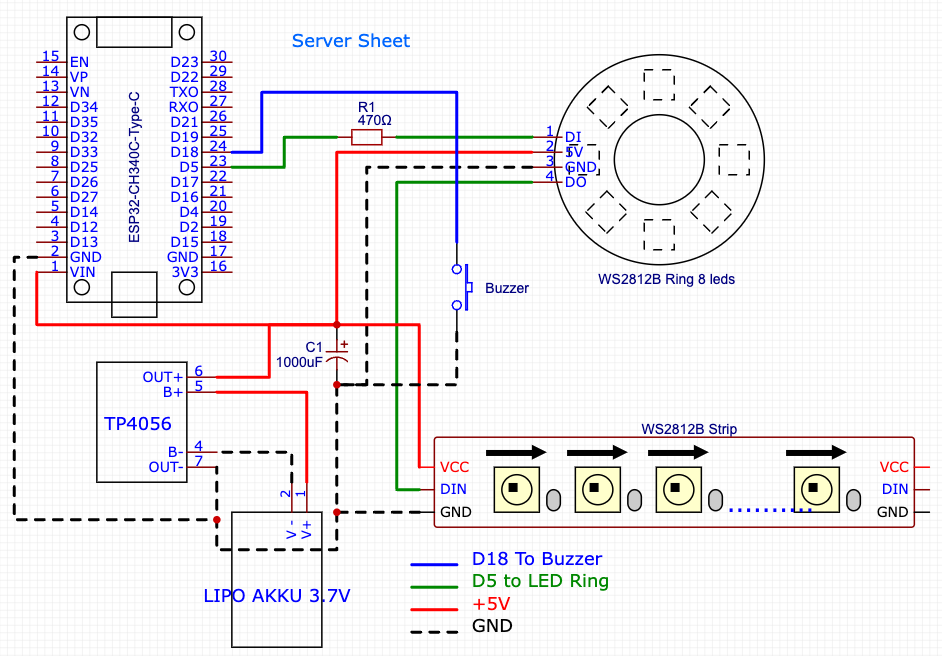
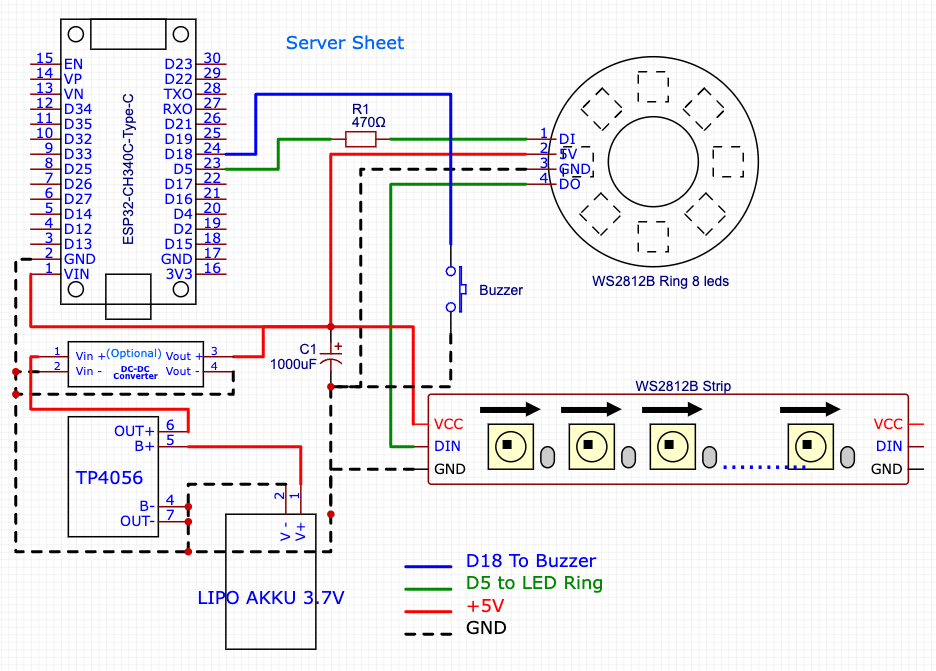
Update documentation to include DC-DC Step-Up Converter as an optional component for the quiz buzzer system. Clarified its benefits for stable LED performance and ESP32 operation, and adjusted recommendations for series resistor and capacitor to "strongly recommended." Enhanced wiring guide with det

Changed region(s): [[0.0, 0.0, 0.9915, 1.0], [0.4338, 0.8232, 0.6506, 0.9756], [0.3098, 0.0305, 0.4338, 0.0915]]

diff --git a/docs/WIRING_GUIDE.md b/docs/WIRING_GUIDE.md
@@ -21,6 +21,21 @@ Complete step-by-step wiring instructions for building the Server (Quiz Master) 
 - **Solder**
 - **Electrical tape** or **Kapton tape**
 
+### Optional Components
+
+#### DC-DC Step-Up Converter (Server Only)
+- **Purpose:** Boosts 3.7V battery voltage to stable 5V for LEDs and ESP32
+- **Type:** Step-up (boost) converter, adjustable output
+- **Recommended specs:** 
+  - Input: 3.0-4.2V (LiPo range)
+  - Output: 5V, min. 3A capacity
+  - Efficiency: >85%
+- **Advantages:**
+  - More stable voltage for LEDs (less flickering)
+  - Better performance at low battery levels
+  - Can extend usable battery capacity
+- **Note:** Not required if using ESP32's onboard regulator, but recommended for server with 18 LEDs
+
 ---
 
 ## 🔌 Pin Configuration (Unified for Server & Client!)
@@ -54,6 +69,7 @@ Both Server and Client use **identical pin assignments** - this simplifies assem
 - LiPo Battery (3.7V 8000mAh)
 - 1000µF Capacitor (power stabilization)
 - 470Ω Resistor (R1, LED data line protection)
+- DC-DC Step Up Converter (Optional)
 - Button (with internal pull-up)
 - Power Switch
 
@@ -88,26 +104,37 @@ Both Server and Client use **identical pin assignments** - this simplifies assem
 
 **IMPORTANT:** Build power system first and test before connecting other components!
 
-#### Battery → Charging Module → ESP32
+#### Battery → Charging Module → (Optional DC-DC Converter) → ESP32
 
 1. **Solder battery to TP4056 charging module:**
    - Red wire → B+ pad
    - Black wire → B- pad
    - **Add strain relief** with hot glue or zip tie
 
-2. **Add the power switch:**
-   - Cut the positive (+) wire between OUT+ and the ESP32
-   - Solder switch in line with this wire
-   - The switch goes in the hole on the bottom of the enclosure (secure with zip tie)
+2. **Optional: Add DC-DC Step-Up Converter (Server recommended):**
+   
+   **If using DC-DC converter (recommended for Server):**
+   - Connect TP4056 OUT+ → DC-DC Vin+
+   - Connect TP4056 OUT- → DC-DC Vin-
+   - **Adjust output voltage:** Turn trimmer potentiometer until Vout = 5.0V (measure with multimeter!)
+   - Connect DC-DC Vout+ → Power switch → ESP32 VIN & LED 5V
+   - Connect DC-DC Vout- → ESP32 GND & LED GND
+   
+   **If NOT using DC-DC converter (simpler, but less stable):**
+   - Connect TP4056 OUT+ → Power switch → ESP32 VIN
+   - Connect TP4056 OUT- → ESP32 GND
+   - Note: Voltage will vary 3.0-4.2V depending on battery charge
 
-3. **Connect TP4056 output to ESP32:**
-   - OUT+ → ESP32 VIN (or 5V pin)
-   - OUT- → ESP32 GND
+3. **Add the power switch:**
+   - Install in the positive (+) line (between power source and ESP32)
+   - The switch goes in the hole on the bottom of the enclosure (secure with zip tie)
 
 4. **Test the power system:**
    - Plug USB-C into TP4056 (charging LED should light up)
+   - If using DC-DC converter: Verify output is 5.0V ±0.1V
    - Turn on power switch
    - ESP32 should power up (onboard LED may blink)
+   - Measure voltage at ESP32 VIN: Should be 4.2V (no converter) or 5.0V (with converter)
 
 ### Step 3: LED Wiring
 
@@ -200,10 +227,12 @@ Use this checklist for each device you build:
 
 ### Power System
 - [ ] Battery soldered to TP4056 B+/B-
+- [ ] (Optional) DC-DC converter connected and adjusted to 5.0V
 - [ ] Power switch in positive line
-- [ ] TP4056 OUT+/OUT- to ESP32 VIN/GND
+- [ ] Power output to ESP32 VIN/GND
 - [ ] USB charging tested (charging LED on TP4056)
 - [ ] Power switch tested (ESP32 turns on/off)
+- [ ] Voltage at ESP32 VIN measured: ~4.2V (no converter) or 5.0V (with converter)
 
 ### LED System
 - [ ] 1000µF capacitor installed (5V to GND, correct polarity!)
@@ -364,6 +393,42 @@ Using consistent colors makes troubleshooting much easier:
 ---
 
 ## 🛠 Advanced: Modifications
+
+### DC-DC Step-Up Converter (Recommended for Server)
+
+**Why add a DC-DC converter?**
+
+The 3.7V LiPo battery voltage drops as it discharges (4.2V full → 3.0V empty). This can cause:
+- LED color shifting and flickering at low battery
+- ESP32 brownouts (especially with 18 LEDs on server)
+- Reduced usable battery capacity
+
+A step-up converter maintains stable 5V regardless of battery level.
+
+**Installation (Server):**
+
+1. **Position:** Between TP4056 OUT and ESP32/LED power
+2. **Wiring:**
+   ```
+   Battery → TP4056 → DC-DC Converter → Switch → ESP32 & LEDs
+              (3.7V)      (5.0V output)
+   ```
+3. **Initial Setup:**
+   - Connect multimeter to DC-DC output
+   - Adjust trimmer potentiometer until exactly 5.0V
+   - Mark potentiometer position with marker (prevents accidental adjustment)
+   - Double-check voltage before connecting to ESP32!
+
+4. **Benefits:**
+   - Stable LED colors throughout battery life
+   - No brownouts
+   - Can use battery down to 3.0V (vs 3.3V minimum for ESP32)
+   - Better performance overall
+
+**Do clients need it?**
+- Not essential for clients (only 8 LEDs)
+- Server benefits more (18 LEDs = more power draw)
+- If building 10 clients, may skip converter to reduce cost/complexity
 
 ### Adding Additional Buttons (Server)
 

diff --git a/README.md b/README.md
@@ -21,7 +21,7 @@ A quiz buzzer system with one ESP32 server and multiple ESP32 clients, connected
 | **LED Ring (8 LEDs)** | WS2812 5050 RGB LED Ring, 8 Bit, 32mm outer diameter | [AZ-Delivery](https://www.az-delivery.de/products/led-ring-ws2812-5050-rgb) |
 | **Button** | 12x12x7mm Tactile Push Button Switch, 4-Pin | [Amazon DE](https://www.amazon.de/dp/B0CP2DMNMQ) |
 | **Button Spring** | Spring for button mechanism | [Amazon DE](https://www.amazon.de/dp/B0DHCPVJNS) |
-| **Charging Module** | Lithium Battery Charging Module (TP4056 or similar) | [Amazon DE](https://www.amazon.de/dp/B0DBHMR5KJ) |
+| **Charging Module** | Lithium Battery Charging Module (TP4056) | [Amazon DE](https://www.amazon.de/dp/B0DBHMR5KJ) |
 | **Power Switch** | Mini Toggle Switch / Push Button for power | [Amazon DE](https://www.amazon.de/dp/B0CZNH2K4S) |
 | **Heat Inserts** | M3 Threaded Inserts (short version) | [Amazon DE](https://www.amazon.de/dp/B0D17FGQWW) |
 | **Screws** | M3 x 8 mm (Counter-sunk) | - |
@@ -32,6 +32,7 @@ A quiz buzzer system with one ESP32 server and multiple ESP32 clients, connected
 |-----------|---------------|------|
 | **LED Strip** | WS2812B LED Strip, 60 LEDs/m (for additional 10 status LEDs) | [Amazon DE](https://www.amazon.de/SEZO-Individuell-Adressierbar-Nicht-Wasserdicht-Inneneinrichtung/dp/B09N99DJRG) |
 | **Battery** | Lithium Polymer Battery 3.7V 8000mAh (high capacity for server) | [Amazon DE](https://www.amazon.de/dp/B0F4WW11PX) |
+| **DC-DC Step Up Converter (Optional)** | ARCELI DC-DC Step Up Boost Power Converter, 2V-24V to DC 5V-28V Step-Up | [Amazon DE](https://www.amazon.de/dp/B0CR5PH1MW) |
 
 #### Client-Specific Components
 
@@ -57,10 +58,11 @@ A quiz buzzer system with one ESP32 server and multiple ESP32 clients, connected
 - 1x Tactile Button (main control)
 - 1x Button Spring
 - 1x Lithium Battery Charging Module
+- 1x DC-DC Step-Up Converter (3.7V→5V) *(optional but recommended)*
 - 1x Power Switch
 - 1x 3.7V 8000mAh LiPo Battery
-- 1x 470Ω Resistor *(optional)*
-- 1x 1000µF Capacitor *(optional)*
+- 1x 470Ω Resistor *(strongly recommended)*
+- 1x 1000µF Capacitor *(strongly recommended)*
 
 #### Client (Player Buzzer) - Build 10x
 - 1x ESP32-CH340C-TYPEC Board
@@ -70,8 +72,8 @@ A quiz buzzer system with one ESP32 server and multiple ESP32 clients, connected
 - 1x Lithium Battery Charging Module
 - 1x 3.7V 1800mAh LiPo Battery
 - 1x Power Switch
-- 1x 470Ω Resistor *(optional)*
-- 1x 1000µF Capacitor *(optional)*
+- 1x 470Ω Resistor *(strongly recommended)*
+- 1x 1000µF Capacitor *(strongly recommended)*
 
 ## 📋 Pin Configuration (unified)
 

diff --git a/docs/TECHNICAL_SPECIFICATION.md b/docs/TECHNICAL_SPECIFICATION.md
@@ -115,6 +115,7 @@ constexpr uint8_t BUTTON_PIN = 18;   // Main button (INPUT_PULLUP)
 - **WS2812B LEDs:** 18 total (8-LED ring + 10 from strip)
 - **Battery:** 3.7V 8000mAh LiPo
 - **Charging:** TP4056 USB-C module
+- **DC-DC Step-Up Converter:** Optional but recommended (boosts 3.7V battery to stable 5V)
 - **Power switch:** In positive line (bottom hole mount)
 - **Protection:** 470Ω resistor (data line), 1000µF capacitor (power)
 
